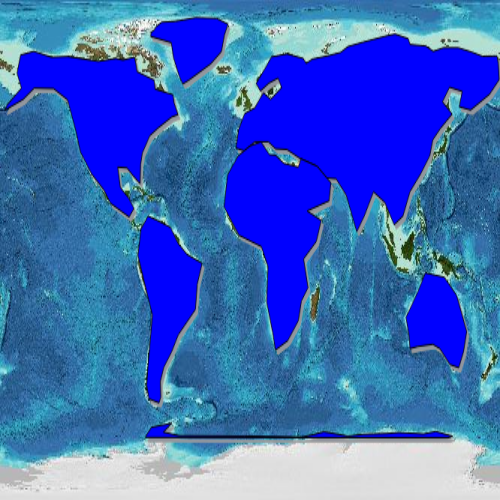
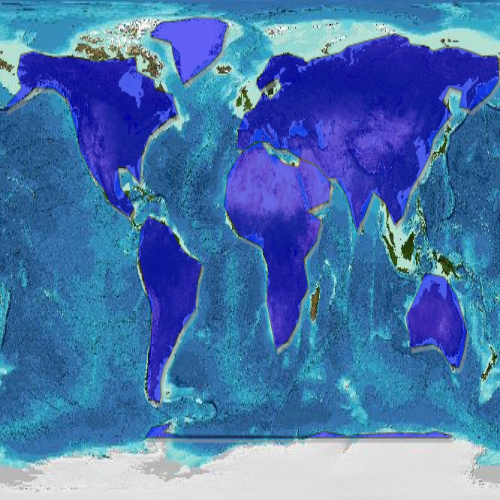
Update tests

diff --git a/tests/src/server/wms/test_qgsserver_wms_parameters.cpp b/tests/src/server/wms/test_qgsserver_wms_parameters.cpp
@@ -1,9 +1,9 @@
 /***************************************************************************
-     test_qgsserver_wms_exceptions.cpp
+     test_qgsserver_wms_parameters.cpp
      ---------------------------------
-    Date                 : 27 Mar 2019
-    Copyright            : (C) 2019 by Paul Blottiere
-    Email                : paul dot blottiere @ oslandia.com
+    Date                 : 02 Sept 2020
+    Copyright            : (C) 2020 by Paul Blottiere
+    Email                : paul dot blottiere @ gmail.com
  ***************************************************************************
  *                                                                         *
  *   This program is free software; you can redistribute it and/or modify  *

diff --git a/tests/src/python/test_qgsserver_wms_getmap.py b/tests/src/python/test_qgsserver_wms_getmap.py
@@ -1644,6 +1644,7 @@ class TestQgsServerWMSGetMap(QgsServerTestBase):
             "SERVICE": "WMS",
             "REQUEST": "GetMap",
             "LAYERS": "EXTERNAL_WMS:landsat,Country",
+            "OPACITIES": "255,150",
             "landsat:layers": "GEBCO_LATEST",
             "landsat:dpiMode": "7",
             "landsat:url": "https://www.gebco.net/data_and_products/gebco_web_services/web_map_service/mapserv",
